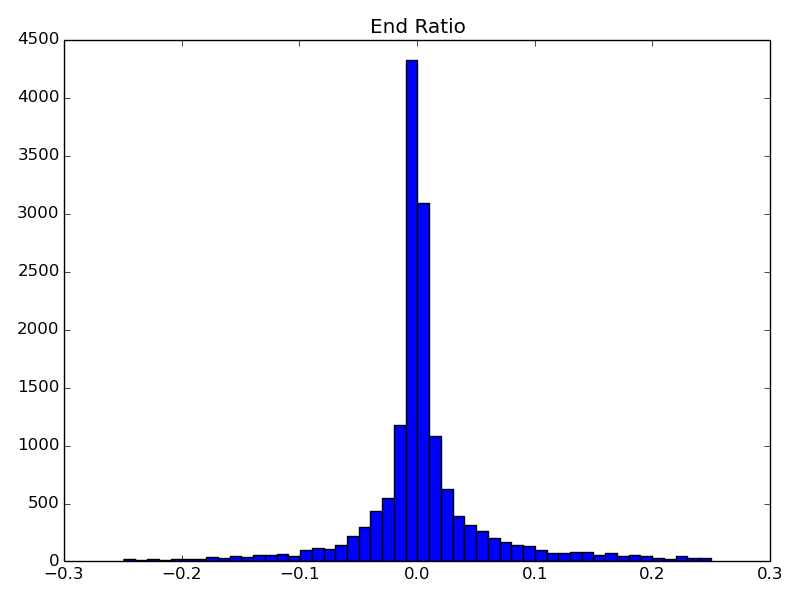
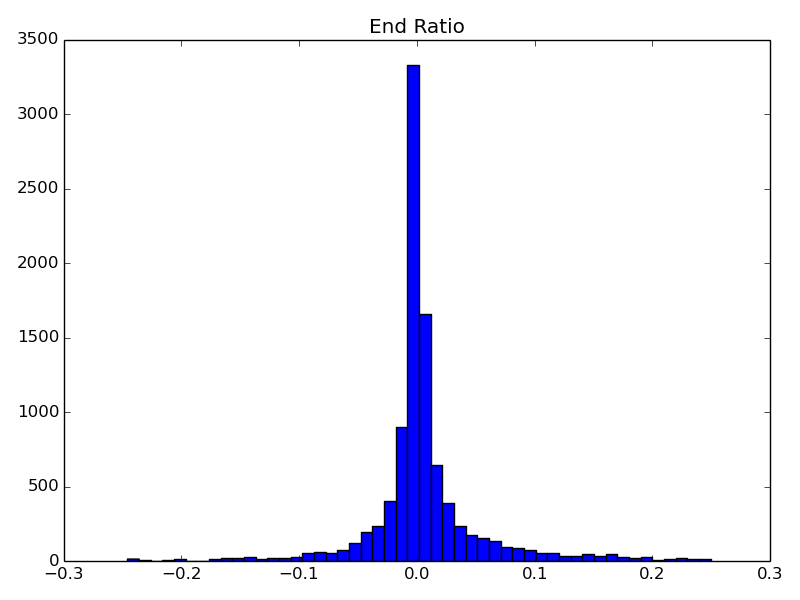
updates

diff --git a/src/master_writer.py b/src/master_writer.py
@@ -54,7 +54,7 @@ def run(DMSOgenes,DMSOTSS,DMSOEND,CAgenes,CATSS,CAEND,filedir,figuredir):
                 coverage = '0'
             d[gene].append(coverage)
             
-    coveragecutoff = 50
+    coveragecutoff = 100
     TRlist = list()
     TRgenes = list()
     DMSOTRgenes = list()
